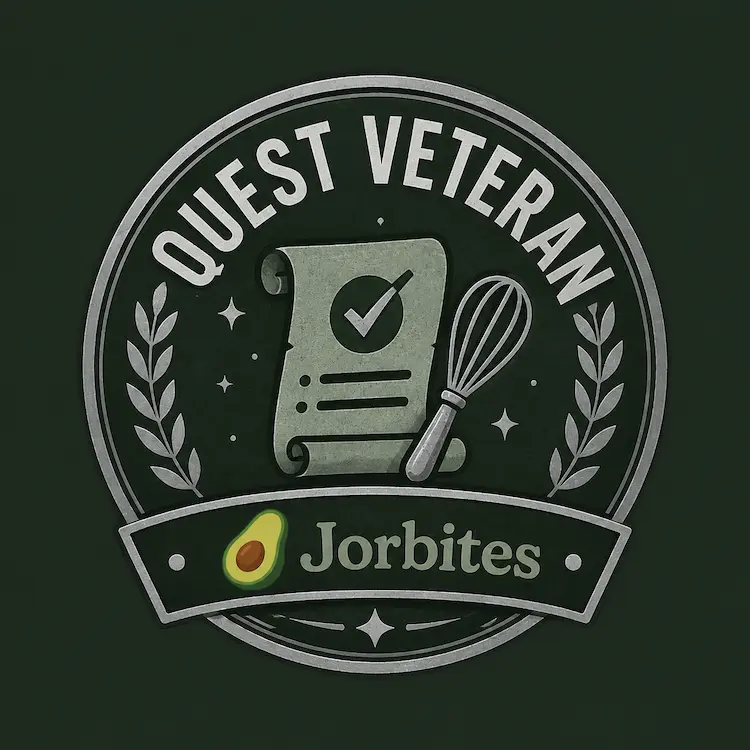
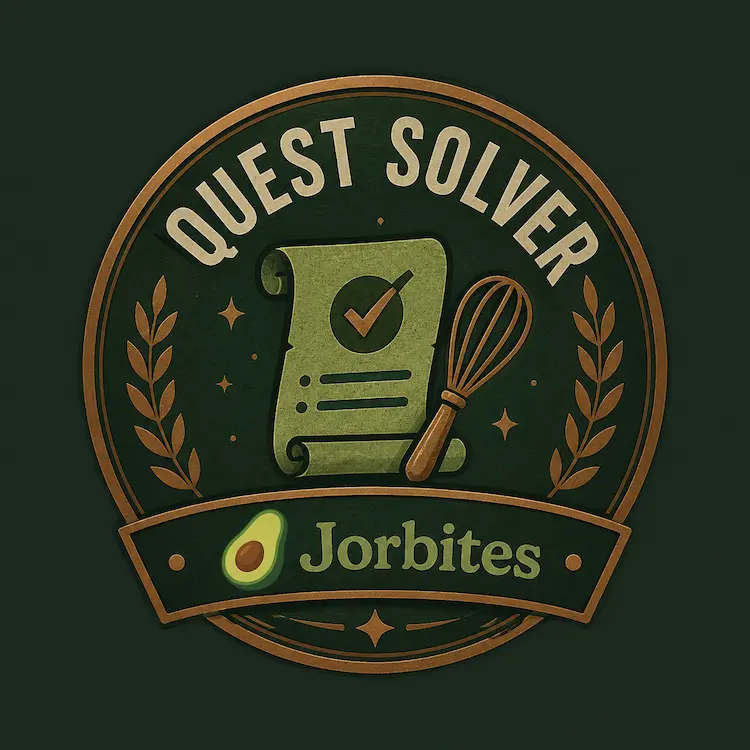
fix event translations

diff --git a/app/courses/quests/questsQuestions.ts b/app/courses/quests/questsQuestions.ts
@@ -18,8 +18,8 @@ export const questsQuestions: Question[] = [
         id: 'q1',
         question: {
             en: 'Who is allowed to open a recipe quest (request a recipe) on Jorbites?',
-            es: '¿Quién tiene permitido abrir una búsqueda de receta (solicitar una receta) en Jorbites?',
-            ca: 'Qui té permès obrir una cerca de recepta (sol·licitar una recepta) a Jorbites?',
+            es: '¿Quién tiene permitido abrir una misión de receta (solicitar una receta) en Jorbites?',
+            ca: 'Qui té permès obrir una missió de recepta (sol·licitar una recepta) a Jorbites?',
         },
         options: {
             en: [
@@ -47,8 +47,8 @@ export const questsQuestions: Question[] = [
         id: 'q2',
         question: {
             en: 'How does a chef suggest their recipe to fulfill an open quest request?',
-            es: '¿Cómo sugiere un chef su receta para cumplir con una solicitud de búsqueda abierta?',
-            ca: 'Com suggereix un xef la seva recepta per complir amb una sol·licitud de cerca oberta?',
+            es: '¿Cómo sugiere un chef su receta para cumplir con una solicitud de misión abierta?',
+            ca: 'Com suggereix un xef la seva recepta per complir amb una sol·licitud de missió oberta?',
         },
         options: {
             en: [
@@ -59,13 +59,13 @@ export const questsQuestions: Question[] = [
             ],
             es: [
                 'Enviando el enlace de la receta por correo a soporte',
-                'Haciendo clic en "Vincular Receta" en la página de la búsqueda y seleccionando una receta publicada',
+                'Haciendo clic en "Vincular Receta" en la página de la misión y seleccionando una receta publicada',
                 'Escribiendo el nombre de la receta en la sección de comentarios',
                 'Publicando la receta únicamente en su página de perfil personal',
             ],
             ca: [
                 "Enviant l'enllaç de la recepta per correu a suport",
-                'Fent clic a "Vincular Recepta" a la pàgina de la cerca i seleccionant una recepta publicada',
+                'Fent clic a "Vincular Recepta" a la pàgina de la missió i seleccionant una recepta publicada',
                 'Escrivint el nom de la recepta a la secció de comentaris',
                 'Publicant la recepta únicament a la seva pàgina de perfil personal',
             ],
@@ -76,8 +76,8 @@ export const questsQuestions: Question[] = [
         id: 'q3',
         question: {
             en: 'What is the correct status progression of a quest from start to finish?',
-            es: '¿Cuál es la progresión de estado correcta de una búsqueda de principio a fin?',
-            ca: "Quina és la progressió d'estat correcta d'una cerca de principi a fi?",
+            es: '¿Cuál es la progresión de estado correcta de una misión de principio a fin?',
+            ca: "Quina és la progressió d'estat correcta d'una missió de principi a fi?",
         },
         options: {
             en: [
@@ -105,8 +105,8 @@ export const questsQuestions: Question[] = [
         id: 'q4',
         question: {
             en: 'Who has the authority to accept a suggested recipe and mark the quest as Completed?',
-            es: '¿Quién tiene la autoridad para aceptar una receta sugerida y marcar la búsqueda como Completada?',
-            ca: "Qui té l'autoritat per acceptar una recepta suggerida i marcar la cerca com a Completada?",
+            es: '¿Quién tiene la autoridad para aceptar una receta sugerida y marcar la misión como Completada?',
+            ca: "Qui té l'autoritat per acceptar una recepta suggerida i marcar la missió com a Completada?",
         },
         options: {
             en: [
@@ -117,13 +117,13 @@ export const questsQuestions: Question[] = [
             ],
             es: [
                 'Cualquier chef registrado de Jorbites',
-                'El creador (organizador) de la búsqueda que solicitó la receta',
+                'El creador (organizador) de la misión que solicitó la receta',
                 'Solo las cuentas de administrador de Jorbites',
                 'El chef que subió la receta de solución',
             ],
             ca: [
                 'Qualsevol xef registrat de Jorbites',
-                'El creador (organitzador) de la cerca que va sol·licitar la recepta',
+                'El creador (organitzador) de la missió que va sol·licitar la recepta',
                 "Només els comptes d'administrador de Jorbites",
                 'El xef que va pujar la recepta de solució',
             ],
@@ -134,8 +134,8 @@ export const questsQuestions: Question[] = [
         id: 'q5',
         question: {
             en: 'What is the main benefit of users liking a quest request on the community board?',
-            es: '¿Cuál es el beneficio principal de que los usuarios den me gusta a una solicitud de búsqueda?',
-            ca: "Quin és el benefici principal que els usuaris donin m'agrada a una sol·licitud de cerca?",
+            es: '¿Cuál es el beneficio principal de que los usuarios den me gusta a una solicitud de misión?',
+            ca: "Quin és el benefici principal que els usuaris donin m'agrada a una sol·licitud de missió?",
         },
         options: {
             en: [
@@ -148,13 +148,13 @@ export const questsQuestions: Question[] = [
                 'Les otorga ingredientes gratuitos',
                 'Publica automáticamente una receta',
                 'Muestra apoyo e incrementa la visibilidad/demanda comunitaria de esa receta',
-                'Cambia el estado de la búsqueda a Completada',
+                'Cambia el estado de la misión a Completada',
             ],
             ca: [
                 'Els atorga ingredients gratuïts',
                 'Publica automàticament una recepta',
                 "Mostra suport i incrementa la visibilitat/demanda comunitària d'aquesta recepta",
-                "Canvia l'estat de la cerca a Completada",
+                "Canvia l'estat de la missió a Completada",
             ],
         },
         correctIndex: 2,

diff --git a/app/content/events/es/quest_badges.md b/app/content/events/es/quest_badges.md
@@ -1,18 +1,24 @@
 ---
-title: Insignias de Maestro de Búsquedas
+title: Insignias de Maestro de Misiones
 image: /images/events/quest_badges/quest_badges.webp
 permanent: true
-description: ¡Gana insignias exclusivas respondiendo a las búsquedas de recetas de la comunidad!
+description: ¡Gana insignias exclusivas cumpliendo misiones de recetas de la comunidad!
 ---
 
-### 🎯🏅 ¡Insignias de Buscador en Jorbites! 🏅🎯
+### 🎯🏅 ¡Insignias de Cumplidor de Misiones en Jorbites! 🏅🎯
 
-¿Tienes dotes culinarias? ¡Ayuda a otros Jorbiters a encontrar las recetas que buscan! Cuando respondes a una Búsqueda de la comunidad y tu receta es aceptada, desbloqueas insignias exclusivas de Búsqueda:
+¿Tienes dotes culinarias? ¡Ayuda a otros Jorbiters a encontrar las recetas que buscan! Cuando respondes a una Misión de la comunidad y tu receta es aceptada, desbloqueas insignias exclusivas de Misión:
 
-- 🛡 **Buscador (Bronce)** - 1 Búsqueda completada (`quest_solver_1.webp`)
-- ⚔ **Veterano de Búsquedas (Plata)** - 10 Búsquedas completadas (`quest_solver_10.webp`)
-- 👑 **Maestro de Búsquedas (Oro)** - 25 Búsquedas completadas (`quest_solver_25.webp`)
+- 🛡 **Cumplidor de Misiones (Bronce)** - 1 Misión cumplida
 
-![Insignias de Búsqueda](/images/events/quest_badges/badges.webp)
+![Cumplidor de Misiones](/images/events/quest_badges/quest_solver_1.webp)
 
-¡Explora las Búsquedas abiertas hoy y empieza a ganar tus recompensas! 🚀🥑
+- ⚔ **Veterano de Misiones (Plata)** - 10 Misiones cumplidas
+
+![Veterano de Misiones](/images/events/quest_badges/quest_solver_10.webp)
+
+- 👑 **Maestro de Misiones (Oro)** - 25 Misiones cumplidas
+
+![Maestro de Misiones](/images/events/quest_badges/quest_solver_25.webp)
+
+¡Explora las Misiones abiertas hoy y empieza a ganar tus recompensas! 🚀🥑

diff --git a/app/content/events/ca/quest_badges.md b/app/content/events/ca/quest_badges.md
@@ -1,18 +1,24 @@
 ---
-title: Insígnies de Mestre de Cerques
+title: Insígnies de Mestre de Missions
 image: /images/events/quest_badges/quest_badges.webp
 permanent: true
-description: Guanya insígnies exclusives responent a les cerques de receptes de la comunitat!
+description: Guanya insígnies exclusives complint missions de receptes de la comunitat!
 ---
 
-### 🎯🏅 Insígnies de Cercador a Jorbites! 🏅🎯
+### 🎯🏅 Insígnies de Complidor de Missions a Jorbites! 🏅🎯
 
-Tens talent culinari? Ajuda altres Jorbiters a trobar les receptes que busquen! Quan respons a una Cerca de la comunitat i la teva recepta és acceptada, desbloqueges insígnies exclusives de Cerca:
+Tens talent culinari? Ajuda altres Jorbiters a trobar les receptes que busquen! Quan respons a una Missió de la comunitat i la teva recepta és acceptada, desbloqueges insígnies exclusives de Missió:
 
-- 🛡 **Cercador (Bronze)** - 1 Cerca completada (`quest_solver_1.webp`)
-- ⚔ **Veterà de Cerques (Plata)** - 10 Cerques completades (`quest_solver_10.webp`)
-- 👑 **Mestre de Cerques (Or)** - 25 Cerques completades (`quest_solver_25.webp`)
+- 🛡 **Complidor de Missions (Bronze)** - 1 Missió complerta
 
-![Insígnies de Cerca](/images/events/quest_badges/badges.webp)
+![Complidor de Missions](/images/events/quest_badges/quest_solver_1.webp)
 
-Explora les Cerques obertes avui mateix i comença a guanyar les teves recompenses! 🚀🥑
+- ⚔ **Veterà de Missions (Plata)** - 10 Missions complertes
+
+![Veterà de Missions](/images/events/quest_badges/quest_solver_10.webp)
+
+- 👑 **Mestre de Missions (Or)** - 25 Missions complertes
+
+![Mestre de Missions](/images/events/quest_badges/quest_solver_25.webp)
+
+Explora les Missions obertes avui mateix i comença a guanyar les teves recompenses! 🚀🥑

diff --git a/app/content/events/en/quest_badges.md b/app/content/events/en/quest_badges.md
@@ -9,10 +9,16 @@ description: Earn exclusive badges by solving community recipe quests!
 
 Got culinary skills? Help fellow Jorbiters find the recipes they're looking for! When you respond to a community Quest and your recipe gets accepted, you unlock exclusive Quest Badges:
 
-- 🛡 **Quest Solver (Bronze)** - Fulfilled 1 Quest (`quest_solver_1.webp`)
-- ⚔ **Quest Veteran (Silver)** - Fulfilled 10 Quests (`quest_solver_10.webp`)
-- 👑 **Quest Master (Gold)** - Fulfilled 25 Quests (`quest_solver_25.webp`)
+- 🛡 **Quest Solver (Bronze)** - Fulfilled 1 Quest
 
-![Quest Badges](/images/events/quest_badges/badges.webp)
+![Quest Solver](/images/events/quest_badges/quest_solver_1.webp)
+
+- ⚔ **Quest Veteran (Silver)** - Fulfilled 10 Quests
+
+![Quest Veteran](/images/events/quest_badges/quest_solver_10.webp)
+
+- 👑 **Quest Master (Gold)** - Fulfilled 25 Quests
+
+![Quest Master](/images/events/quest_badges/quest_solver_25.webp)
 
 Explore open Quests today and start earning your rewards! 🚀🥑
